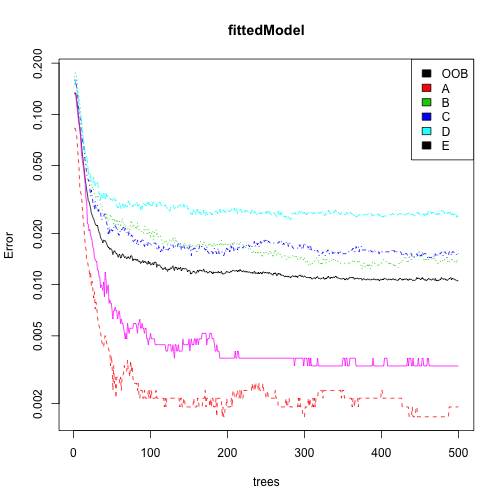
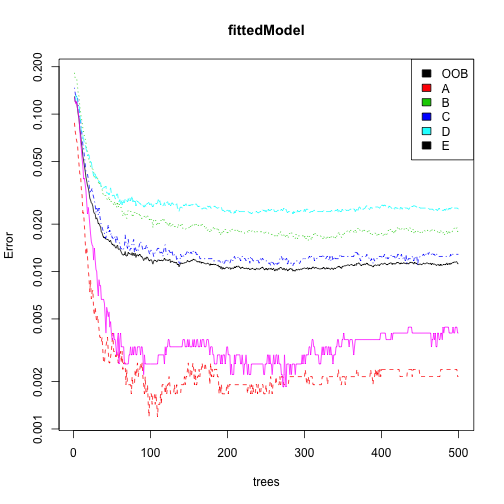
adding citation

diff --git a/Machine Learning 010 - Project Writeup.md b/Machine Learning 010 - Project Writeup.md
@@ -72,12 +72,12 @@ modelAccuracy$overall
 
 ```
 ##       Accuracy          Kappa  AccuracyLower  AccuracyUpper   AccuracyNull 
-##      0.9902121      0.9876169      0.9870433      0.9927746      0.2860930 
+##      0.9885808      0.9855527      0.9851965      0.9913628      0.2860930 
 ## AccuracyPValue  McnemarPValue 
 ##      0.0000000            NaN
 ```
 
-Our model provides a 0.9902121% accuracy, which is pleasantly sufficient, and predicts most variables very well.
+Our model provides a 0.9885808% accuracy, which is pleasantly sufficient, and predicts most variables very well.
 
 
 ```r
@@ -89,10 +89,10 @@ table(predictResult, testingSet$classe)
 ##              
 ## predictResult    A    B    C    D    E
 ##             A 1392   11    0    0    0
-##             B    3  932    9    0    0
-##             C    0    6  841   11    0
-##             D    0    0    5  791    1
-##             E    0    0    0    2  900
+##             B    3  933   10    0    0
+##             C    0    5  838   12    0
+##             D    0    0    7  786    2
+##             E    0    0    0    6  899
 ```
 
 Let's have a look at our 5 most important predictors.
@@ -103,15 +103,15 @@ rownames(variableImportance)[order(variableImportance, decreasing = T)][1:15]
 ```
 
 ```
-##  [1] "magnet_dumbbell_z"    "pitch_forearm"        "magnet_belt_z"       
+##  [1] "magnet_dumbbell_z"    "magnet_belt_z"        "pitch_forearm"       
 ##  [4] "roll_forearm"         "roll_dumbbell"        "gyros_belt_z"        
-##  [7] "roll_arm"             "total_accel_dumbbell" "gyros_dumbbell_y"    
-## [10] "yaw_dumbbell"         "accel_forearm_x"      "accel_forearm_z"     
-## [13] "magnet_forearm_z"     "yaw_arm"              "magnet_arm_x"
+##  [7] "roll_arm"             "total_accel_dumbbell" "yaw_dumbbell"        
+## [10] "gyros_dumbbell_y"     "magnet_forearm_z"     "accel_forearm_x"     
+## [13] "magnet_arm_x"         "magnet_belt_x"        "yaw_arm"
 ```
 ## Conclusion
 
-In this analysis, we showed that it is possible to predict with the outcome of a testing dataset 0.9902121% accuracy using simple machine learning techniques and the _randomForest_ algorithm. The total execution time of this script was under one minute using 19622 observations and 31 variables, demonstrating the usefulness of this easily applied method.
+In this analysis, we showed that it is possible to predict with the outcome of a testing dataset 0.9885808% accuracy using simple machine learning techniques and the _randomForest_ algorithm. The total execution time of this script was under one minute using 19622 observations and 31 variables, demonstrating the usefulness of this easily applied method.
 
 ## Appendix
 
@@ -157,34 +157,36 @@ modelAccuracy
 ##           Reference
 ## Prediction    A    B    C    D    E
 ##          A 1392    3    0    0    0
-##          B   11  932    6    0    0
-##          C    0    9  841    5    0
-##          D    0    0   11  791    2
-##          E    0    0    0    1  900
+##          B   11  933    5    0    0
+##          C    0   10  838    7    0
+##          D    0    0   12  786    6
+##          E    0    0    0    2  899
 ## 
 ## Overall Statistics
-##                                          
-##                Accuracy : 0.9902         
-##                  95% CI : (0.987, 0.9928)
-##     No Information Rate : 0.2861         
-##     P-Value [Acc > NIR] : < 2.2e-16      
-##                                          
-##                   Kappa : 0.9876         
-##  Mcnemar's Test P-Value : NA             
+##                                           
+##                Accuracy : 0.9886          
+##                  95% CI : (0.9852, 0.9914)
+##     No Information Rate : 0.2861          
+##     P-Value [Acc > NIR] : < 2.2e-16       
+##                                           
+##                   Kappa : 0.9856          
+##  Mcnemar's Test P-Value : NA              
 ## 
 ## Statistics by Class:
 ## 
 ##                      Class: A Class: B Class: C Class: D Class: E
-## Sensitivity            0.9922   0.9873   0.9802   0.9925   0.9978
-## Specificity            0.9991   0.9957   0.9965   0.9968   0.9998
-## Pos Pred Value         0.9978   0.9821   0.9836   0.9838   0.9989
-## Neg Pred Value         0.9969   0.9970   0.9958   0.9985   0.9995
-## Prevalence             0.2861   0.1925   0.1750   0.1625   0.1839
-## Detection Rate         0.2838   0.1900   0.1715   0.1613   0.1835
+## Sensitivity            0.9922   0.9863   0.9801   0.9887   0.9934
+## Specificity            0.9991   0.9960   0.9958   0.9956   0.9995
+## Pos Pred Value         0.9978   0.9831   0.9801   0.9776   0.9978
+## Neg Pred Value         0.9969   0.9967   0.9958   0.9978   0.9985
+## Prevalence             0.2861   0.1929   0.1743   0.1621   0.1845
+## Detection Rate         0.2838   0.1903   0.1709   0.1603   0.1833
 ## Detection Prevalence   0.2845   0.1935   0.1743   0.1639   0.1837
-## Balanced Accuracy      0.9957   0.9915   0.9884   0.9947   0.9988
+## Balanced Accuracy      0.9957   0.9911   0.9880   0.9921   0.9964
 ```
 
-## Reference
+## Citations
 
-Dataset and citations: http://groupware.les.inf.puc-rio.br/har
+WLE Dataset: http://groupware.les.inf.puc-rio.br/har
+
+Velloso, E.; Bulling, A.; Gellersen, H.; Ugulino, W.; Fuks, H. Qualitative Activity Recognition of Weight Lifting Exercises. Proceedings of 4th International Conference in Cooperation with SIGCHI (Augmented Human '13) . Stuttgart, Germany: ACM SIGCHI, 2013.
